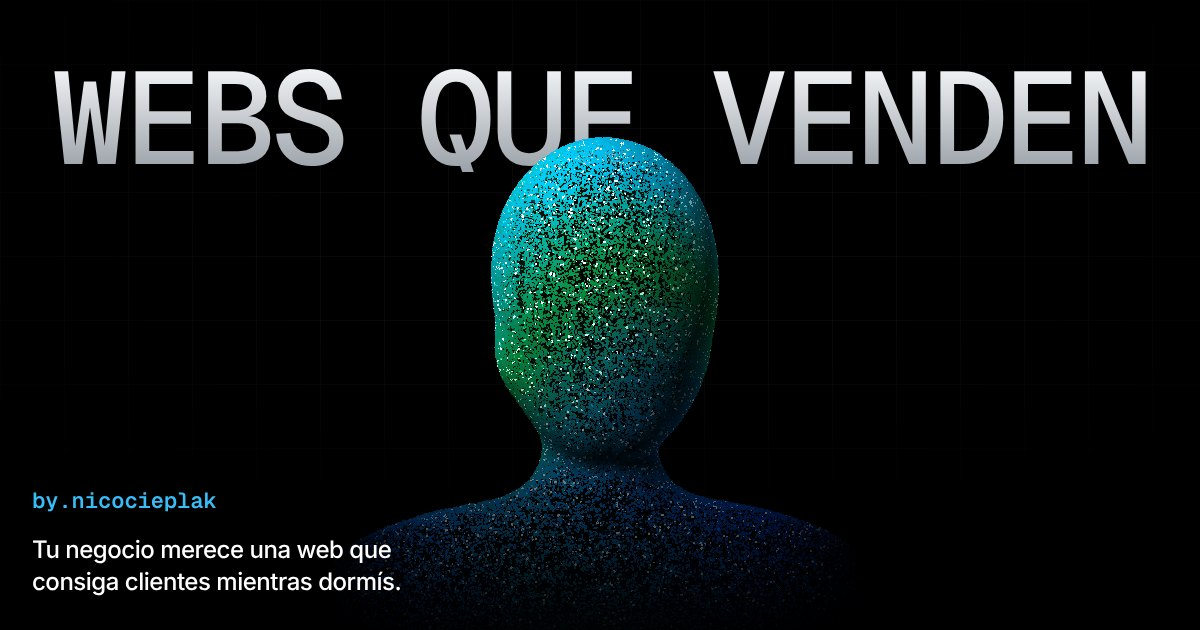
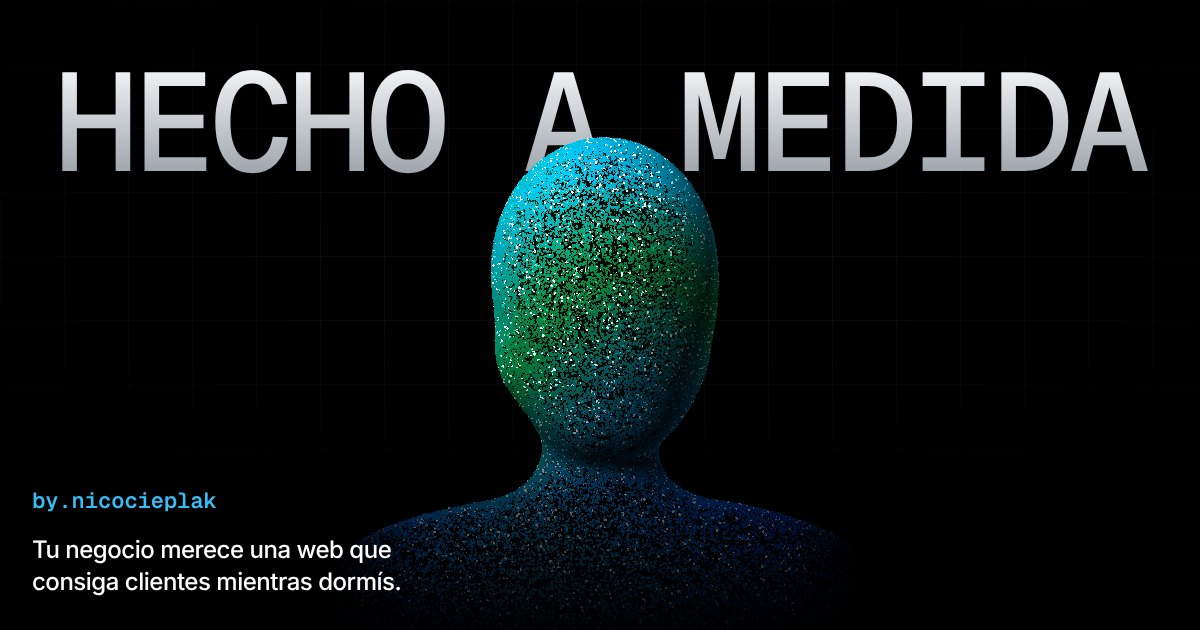
Hero: título HECHO A MEDIDA
Claude-Session: https://claude.ai/code/session_011yTnAsiWisoWJcwCUyj1u5

Changed region(s): [[0.0308, 0.0905, 0.9558, 0.9349]]

diff --git a/index.html b/index.html
@@ -13,7 +13,7 @@
   <meta property="og:type" content="website">
   <meta property="og:locale" content="es_AR">
   <meta property="og:url" content="https://artesanal.dev/">
-  <meta property="og:title" content="Webs que venden — by.nicocieplak">
+  <meta property="og:title" content="Webs hechas a medida — by.nicocieplak">
   <meta property="og:description" content="Sitios web veloces, diseño exclusivo y conexión directa a WhatsApp para tu negocio.">
   <meta property="og:image" content="https://artesanal.dev/assets/images/og-image.jpg">
   <meta property="og:image:width" content="1200">
@@ -113,7 +113,7 @@
       <div class="hero-grid" aria-hidden="true"></div>
       <div class="hero-glow" aria-hidden="true"></div>
 
-      <h1 id="hero-title" class="hero-title">Webs que venden<span class="sr-only">: diseño y desarrollo web a medida, por by.nicocieplak</span></h1>
+      <h1 id="hero-title" class="hero-title">Hecho a medida<span class="sr-only">: diseño y desarrollo web para tu negocio, por by.nicocieplak</span></h1>
 
       <!-- Acá se monta el canvas (assets/js/hero-head.min.js) -->
       <div id="hero-head" class="hero-head" aria-hidden="true"></div>

diff --git a/assets/css/styles.css b/assets/css/styles.css
@@ -316,7 +316,7 @@ body {
   margin-top: 4vh;
   font-family: 'Geist Mono', ui-monospace, monospace;
   font-weight: 500;
-  font-size: clamp(48px, 10.9vw, 190px); /* calibrado para "WEBS QUE VENDEN" (15 letras) */
+  font-size: clamp(48px, 11.6vw, 200px); /* calibrado para "HECHO A MEDIDA" (14 letras) */
   line-height: 0.82;
   letter-spacing: -0.04em;
   text-transform: uppercase;
@@ -370,7 +370,7 @@ body {
 @media (max-width: 767px) {
   .hero-title {
     white-space: normal;
-    font-size: 17.5vw;
+    font-size: 20vw;
     line-height: 0.86;
     margin-top: 1vh;
   }
